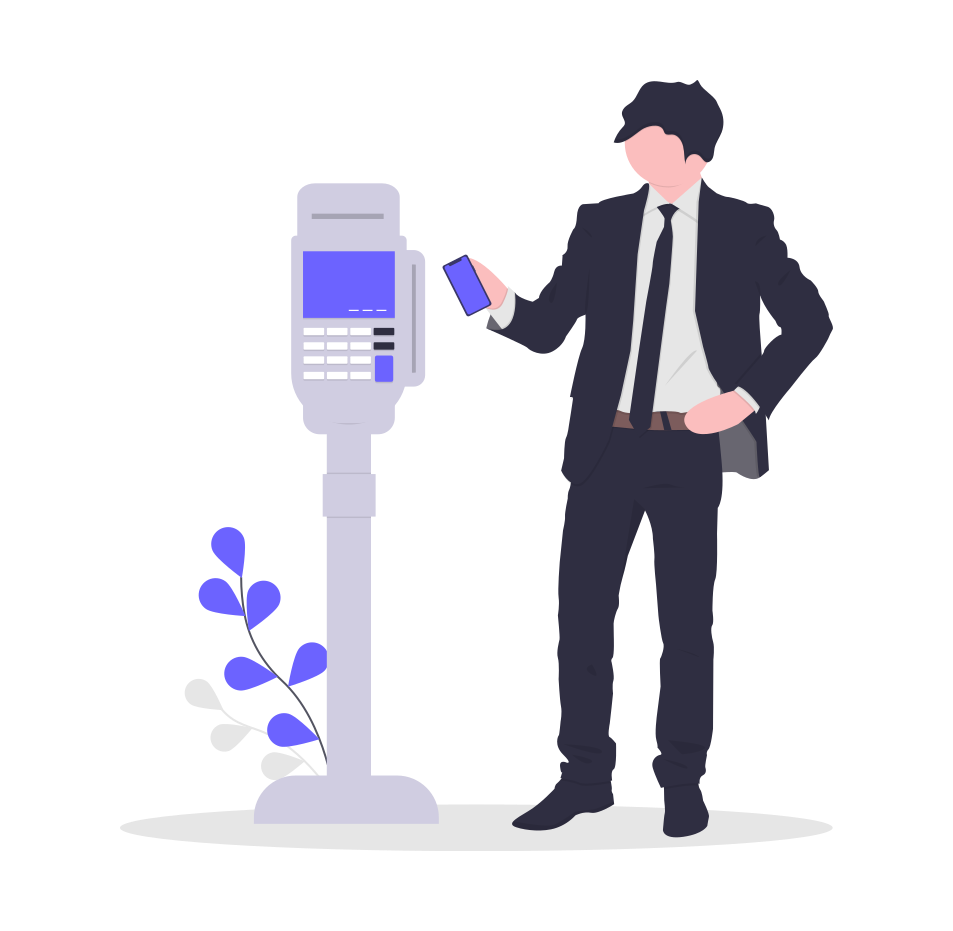
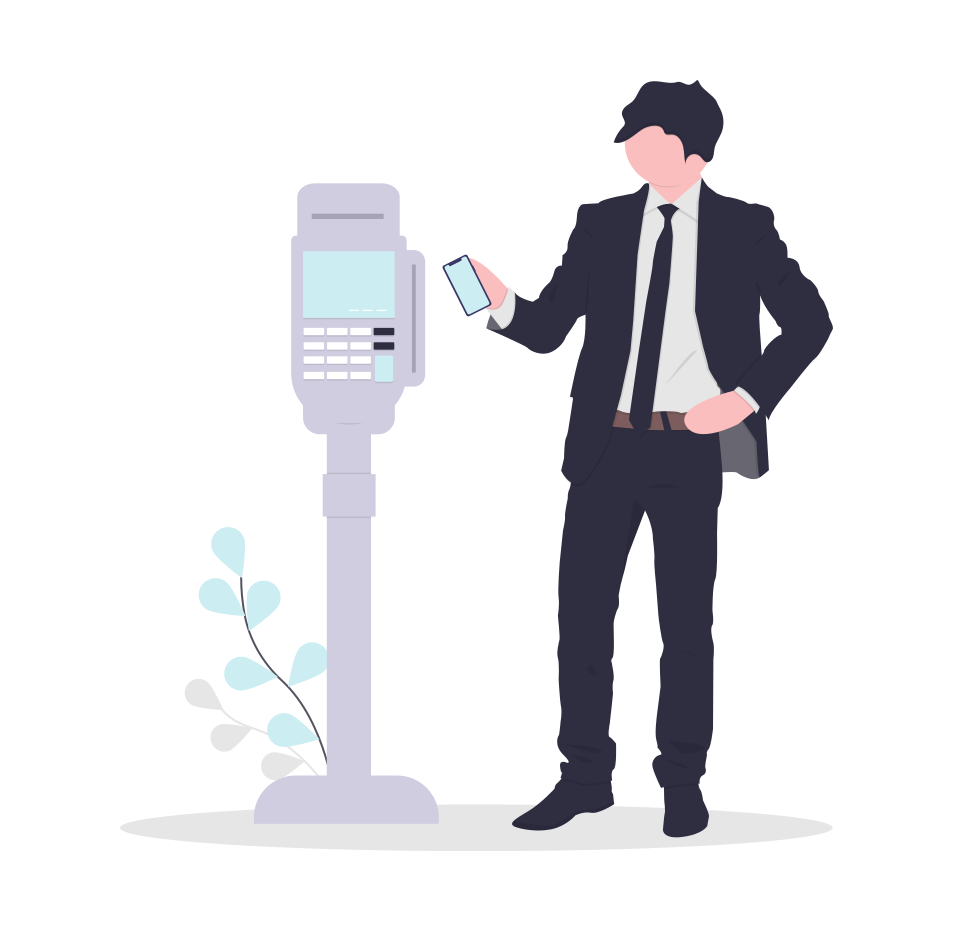
add kegiatan

diff --git a/public/css/app.css b/public/css/app.css
@@ -10938,7 +10938,7 @@ body {
 }
 
 .bg-teal-900 {
-  background-color: #2cbeeb;
+  background-color: #CCEEF2;
   color: #010a0a;
 }
 

diff --git a/resources/sass/app.scss b/resources/sass/app.scss
@@ -18,7 +18,7 @@ body{
 }
 
 .bg-teal-900{
-  background-color: #2cbeeb;
+  background-color: #CCEEF2;
   color: #010a0a;
 }
 .ml-4{

diff --git a/resources/views/welcome.blade.php b/resources/views/welcome.blade.php
@@ -28,7 +28,7 @@
                 <a href="" class="nav-link">
                     <h6 class="text-muted">Home</h6>
                 </a>
-                <a href="" class="nav-link">
+                <a href="{{route('users.kegiatan.index')}}" class="nav-link">
                     <h6 class="text-muted">Kegiatan</h6>
                 </a>
                 <a href="" class="nav-link">
@@ -36,7 +36,7 @@
                 </a>
             </nav>
         </div>
-        <div class="jumbotron" style="background-image: url('banner/undraw_festivities_tvvj.png')">
+        <div class="jumbotron" style="background-image: url('banner/banner.png')">
             <div class="container">
                 <h3 class="text-center">
                     Aplikasi Management Kegiatan
@@ -52,7 +52,7 @@
                         </li>
                     </ol>
                 </nav>
-                <div class="row">
+                <div class="justify-content-center">
                     <div class="col-md-12">
                         <div class="row">
                             <div class="col-md-4">
@@ -99,7 +99,7 @@
                 <div class="row">
                     <div class="col-md-12">
                         <div class="row">
-                            <div class="col-md-4">
+                            <div class="col-md-6">
                                 <div class="card border-0">
                                 <img src="{{asset('banner/undraw_date_picker_gorr.png')}}" 
                                      alt="" 
@@ -111,13 +111,16 @@
                                     </div>
                                 </div>
                             </div>
-                            <div class="col-md-4">
+                            <div class="col-md-6">
                                 <div class="card border-0">
                                 <img src="{{asset('banner/undraw_date_picker_gorr.png')}}" alt="" class="card-img-top">
                                     <div class="card-body">
                                         <h3>Bukber Bersama</h3>
                                         <p>Coming Soon</p>
-                                        <button type="block" class="btn btn-outline-Danger btn-lg btn-block" disabled>Cooming Soon</button>
+                                        <button class="btn-lg btn-block btn-outline-success" disabled>
+                                        <span class="spinner-border spinner-border-sm" role="status" aria-hidden="true"></span>
+                                            Non Active
+                                        </button>
                                     </div>
                                 </div>
                             </div>

diff --git a/routes/web.php b/routes/web.php
@@ -32,7 +32,8 @@ Route::group(['prefix' => 'kegiatan'], function(){
 });
 
 Route::Group(['prefix' => 'users'], function(){
-    Route::get('index', 'User\UserController@index')->name('users');
+    Route::get('index', 'User\UserController@index')->name('user');
+    Route::get('cek-kegiatan', 'Kegiatan\KegiatanController@index')->name('users.kegiatan.index');
 });
 
 Route::group(['prefix' => 'registers'], function (){

diff --git a/app/Http/Controllers/Kegiatan/KegiatanController.php b/app/Http/Controllers/Kegiatan/KegiatanController.php
@@ -1,0 +1,14 @@
+<?php
+
+namespace App\Http\Controllers\Kegiatan;
+
+use Illuminate\Http\Request;
+use App\Http\Controllers\Controller;
+
+class KegiatanController extends Controller
+{
+    public function index()
+    {
+        return view('users.kegiatan.index');
+    }
+}
